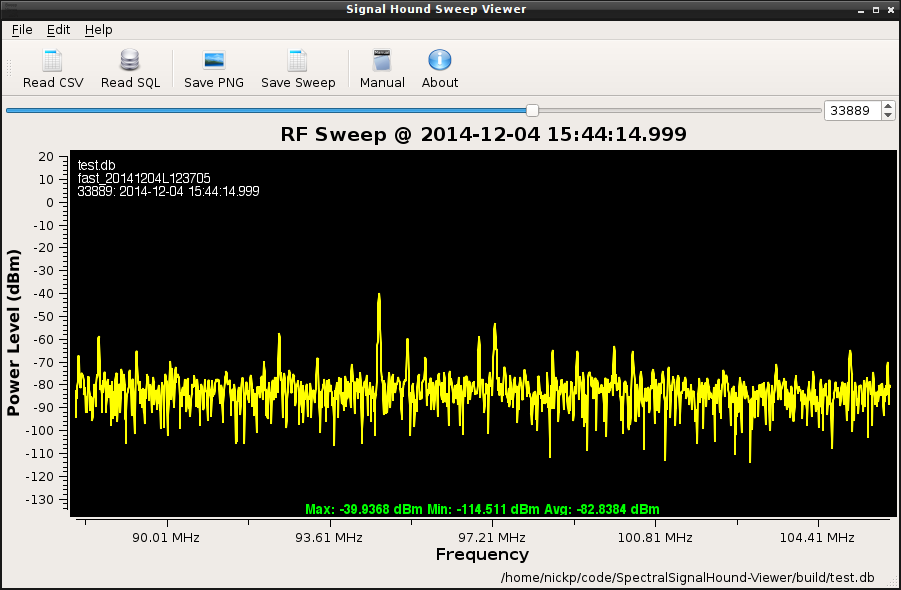
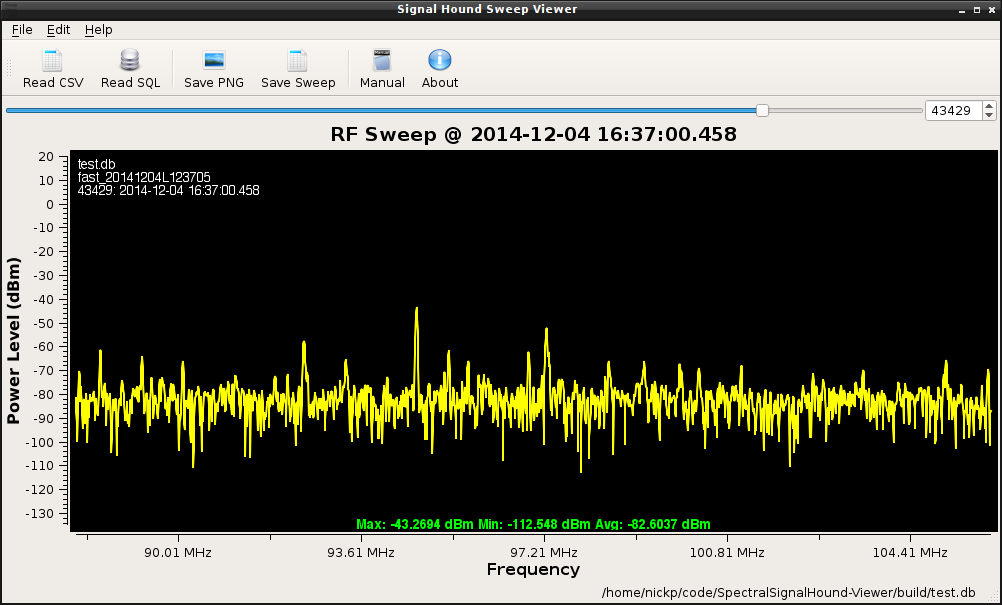
Somehow was missing the seconds indicator.  Screenshots retaken

Changed region(s): [[0.0, 0.0305, 1.0, 1.0], [0.3729, 0.0, 0.5905, 0.0305], [0.9634, 0.0, 0.9945, 0.0305]]

diff --git a/sources/SweepMainWin.cpp b/sources/SweepMainWin.cpp
@@ -71,7 +71,6 @@ void SweepMainWin::updateMetadata() {
   _min_time->setMinimumDateTime(begin);
   _min_time->setMaximumDateTime(end);
   _min_time->setDateTime(begin);
-  qDebug() << "Begin: " << begin << " End: " << end;
   _max_time->setMinimumDateTime(begin);
   _max_time->setMaximumDateTime(end);
   _max_time->setDateTime(end);
